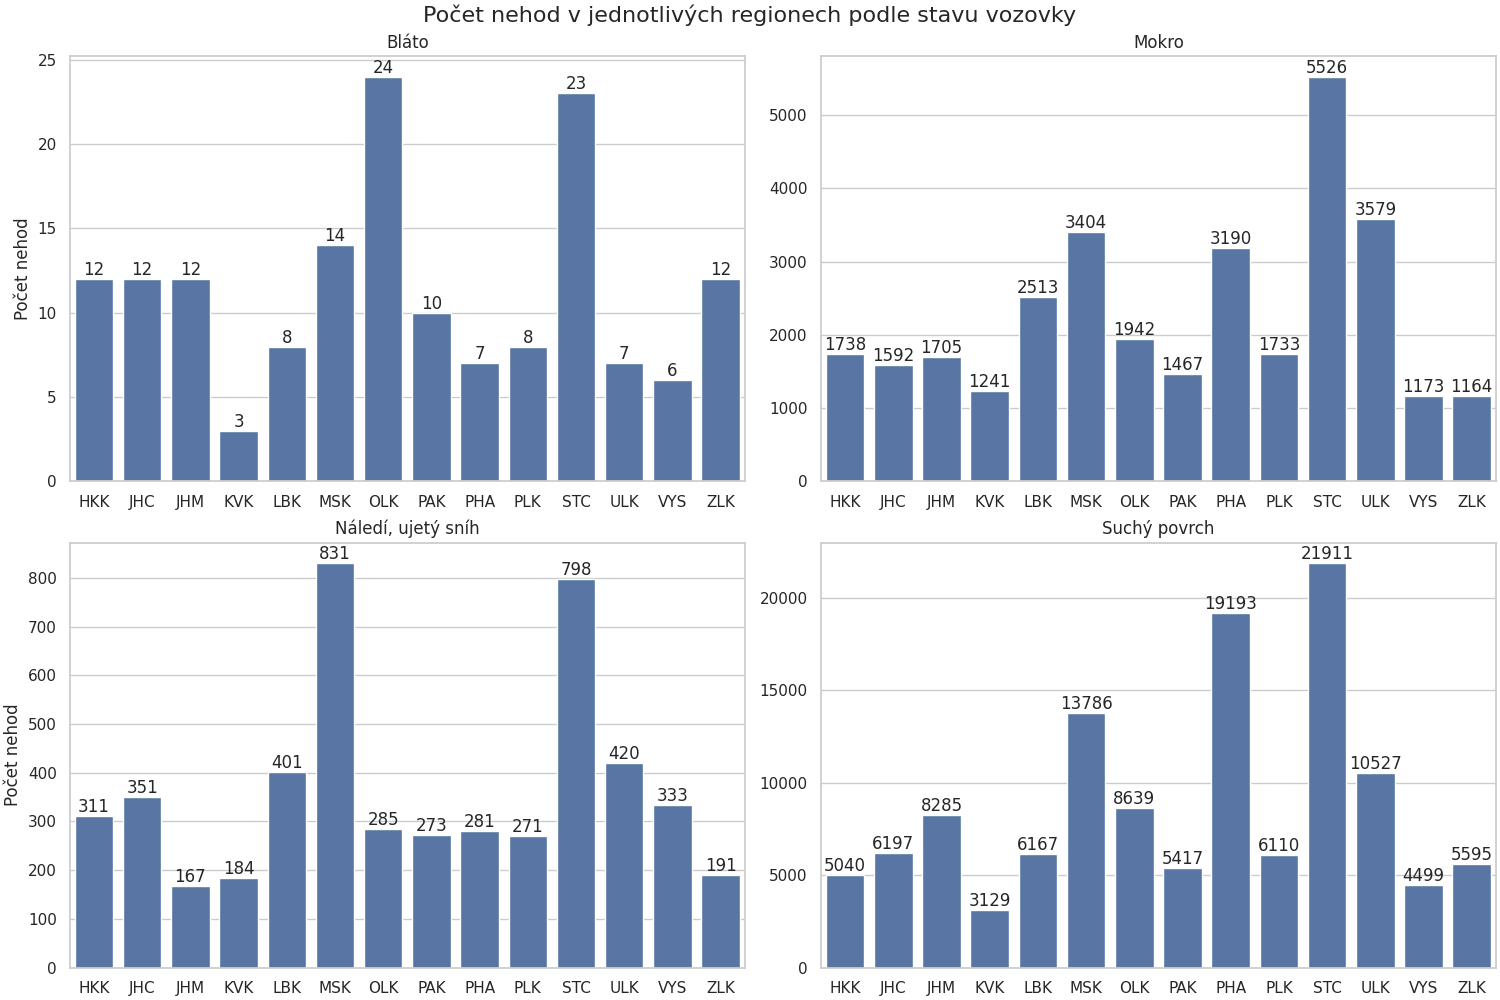
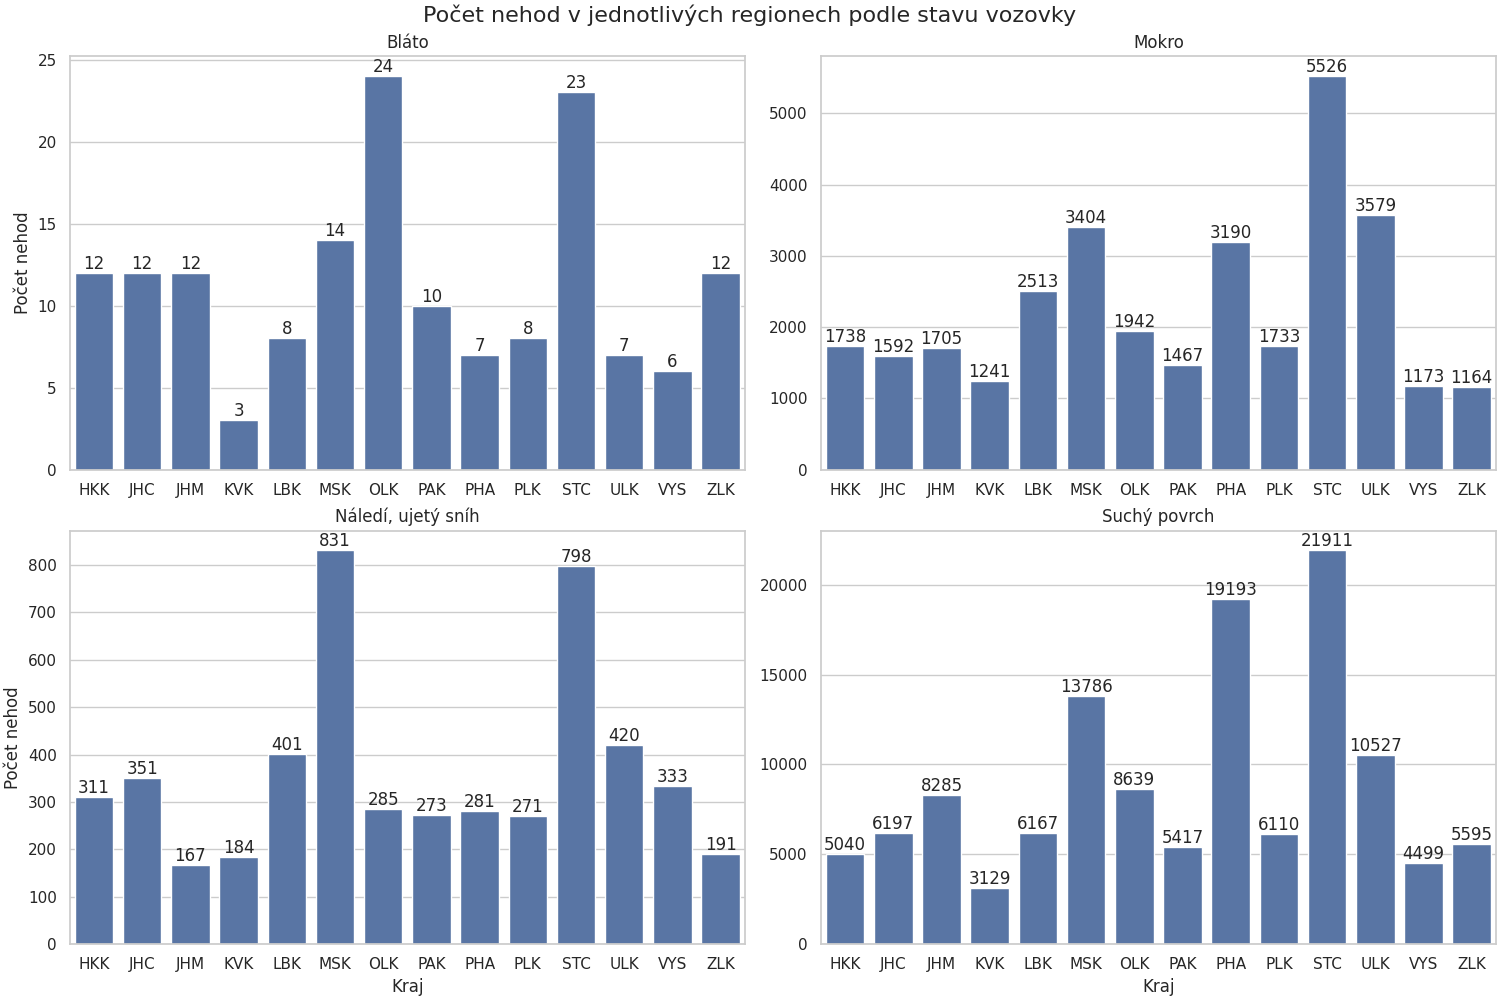
IZV - minor changes

diff --git a/5.semestr/IZV/izv-part02/analysis.py b/5.semestr/IZV/izv-part02/analysis.py
@@ -48,13 +48,13 @@ def plot_state(df: pd.DataFrame, fig_location: str = None, show_figure: bool = F
     # Vytvoření mapy a namapování stavu vozovky
     condition_map = {1: "Suchý povrch", 2: "Suchý povrch", 3: "Mokro", 4: "Bláto", 5: "Náledí, ujetý sníh", 6: "Náledí, ujetý sníh"}
     df['road_condition'] = df['p16'].map(condition_map)
-    #vyfiltrování prázdných záznamů
+    # Vyfiltrování prázdných záznamů
     filtered_df = df[df['road_condition'].notna()]
+    # Seskupíme podle krajů
     grouped_df = filtered_df.groupby(['region', 'road_condition'])
     counts_series = grouped_df.size()
     accident_counts = counts_series.reset_index(name='counts')
     
-    # Set up the plot
     sns.set_theme(style="whitegrid")
     fig, axs = plt.subplots(2, 2, figsize=(15, 10), constrained_layout=True)
     conditions = accident_counts['road_condition'].unique()
@@ -65,10 +65,16 @@ def plot_state(df: pd.DataFrame, fig_location: str = None, show_figure: bool = F
         ax.set_xlabel('')
         ax.set_ylabel('Počet nehod')
         
-        if i % 2 == 0: # Left column 
+        if i % 2 == 0: 
             ax.set_ylabel('Počet nehod') 
         else: 
             ax.set_ylabel('')
+
+        if i > 1:
+            ax.set_xlabel('Kraj')
+        else:
+            ax.set_xlabel('')
+            
 
         for container in ax.containers: 
             ax.bar_label(container)
@@ -112,14 +118,21 @@ def plot_alcohol(df: pd.DataFrame, df_consequences: pd.DataFrame, fig_location: 
     fig, axs = plt.subplots(2, 2, figsize=(15, 10))
     injury_levels_sorted = ['Bez zranění', 'Lehké zranění', 'Těžké zranění', 'Usmrcení']
     
-    for ax, injury_level in zip(axs.flatten(), injury_levels_sorted):
+    for i, (ax, injury_level) in enumerate(zip(axs.flatten(), injury_levels_sorted)):
         sns.barplot(
             data=injury_counts[injury_counts['injury_level'] == injury_level],
             x='region', y='counts', hue='person', ax=ax, palette='muted'
         )
         ax.set_title(injury_level)
-        ax.set_xlabel('')
-        ax.set_ylabel('Počet následků')
+        if i > 1:
+            ax.set_xlabel('Kraj')
+        else:
+            ax.set_xlabel('')
+
+        if i % 2 == 0:
+            ax.set_ylabel('Počet následků')
+        else:
+            ax.set_ylabel('')
         
         # Set font size of x-axis labels
         ax.tick_params(axis='x', labelsize=8)
@@ -154,7 +167,6 @@ def plot_type(df: pd.DataFrame, fig_location: str = None, show_figure: bool = Fa
     
     # Select four regions randomly
     selected_regions = np.random.choice(unique_regions, 4, replace=False)
-    selected_regions = ['MSK', 'PHA', 'PAK', 'KVK']
     # Filter for collisions only
     collision_types = {
         1: 's jedoucím nekolejovým vozidlem', 2: 's vozidlem zaparkovaným', 3: 's pevnou překážkou', 4: 's chodcem',
@@ -184,14 +196,17 @@ def plot_type(df: pd.DataFrame, fig_location: str = None, show_figure: bool = Fa
     fig, axs = plt.subplots(2, 2, figsize=(20, 10), sharex=True)
     regions_sorted = sorted(selected_regions)
     
-    for ax, region in zip(axs.flatten(), regions_sorted):
+    for i, (ax, region) in enumerate(zip(axs.flatten(), regions_sorted)):
         region_data = monthly_data[monthly_data['region'] == region]
         region_data = region_data.set_index('date')
         region_data = region_data.loc['2023-01-01':'2024-9-29']
         
         region_data.plot(ax=ax, title=f'Kraj: {region}')
         ax.set_xlabel('')
-        ax.set_ylabel('Počet nehod')
+        if i % 2 == 0:
+            ax.set_ylabel('Počet nehod')
+        else:
+            ax.set_ylabel('')
         
     # Remove the legend from individual plots
     for ax in axs.flatten():
